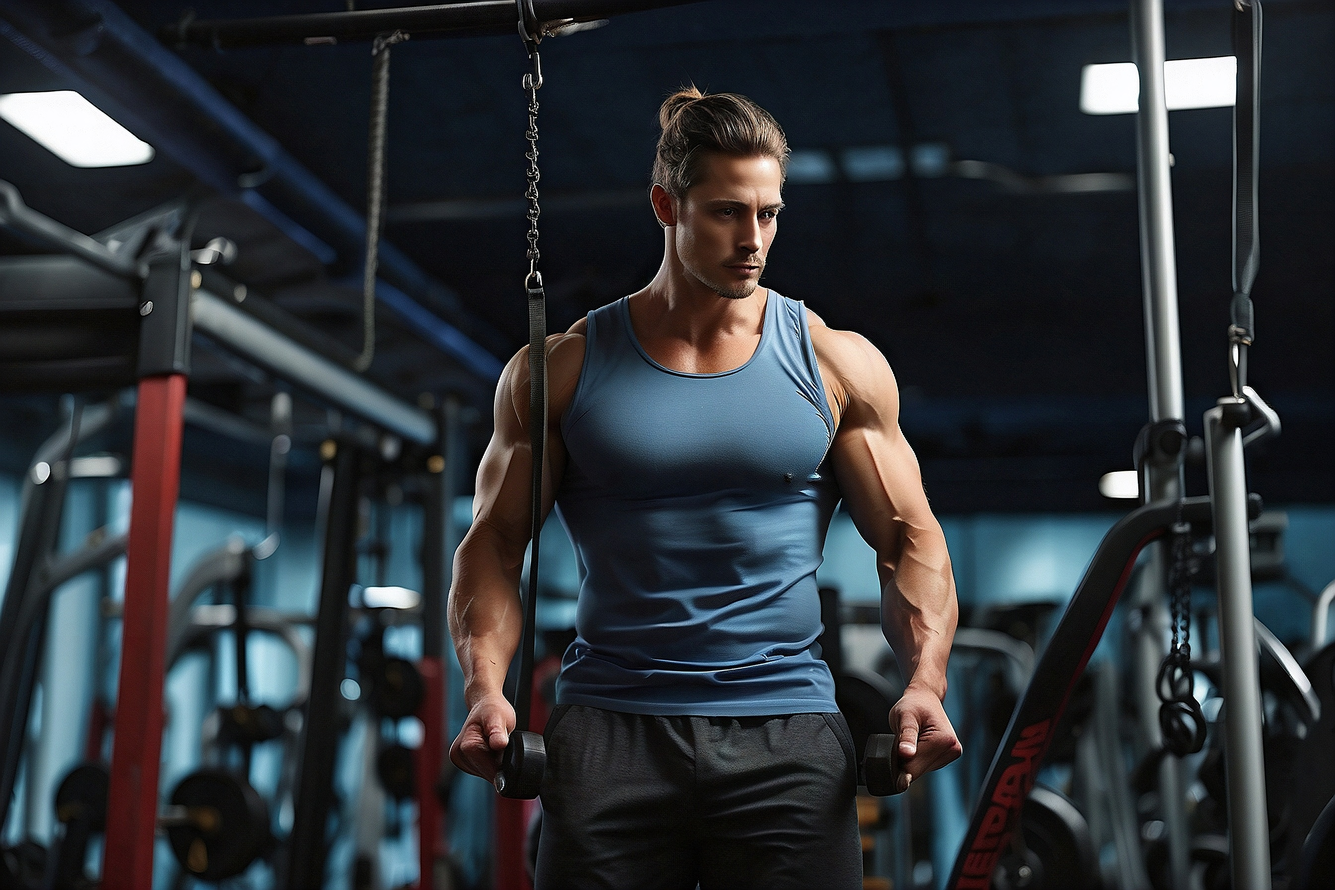
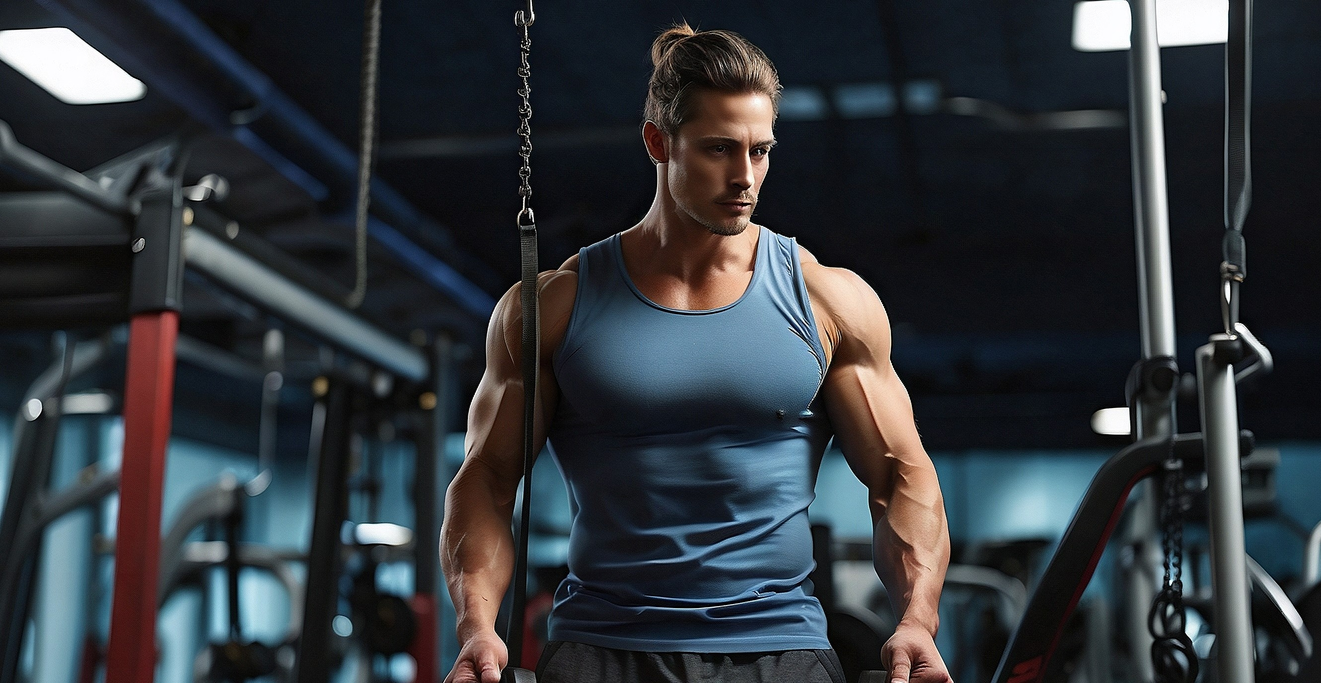
style: removed progress section and changed images of current workout and next workout

diff --git a/src/app/(home)/page.tsx b/src/app/(home)/page.tsx
@@ -8,17 +8,8 @@ export default function Home() {
         <p className=' text-x2 font-bold text-start opacity-80'>Bem vindo,  </p>
         <p className='text-2xl text-start opacity-95'>Isaque Chaves !</p>
       </div>
-      <div className='py-4 bg-gradient-to-b from-accent via-accent-light to-gray-1000 p-4 rounded-xl border'>
-        <p className='uppercase opacity-80'>Progresso</p>
-        <div className='flex flex-row justify-between p-5'>
-          <div>
-            <p className=' text-3xl font-bold'>10 %</p>
-            <p className=' text-[#0B46C7] font-bold'>10/30</p>
-          </div>
-          <p className='text-center font-bold opacity-80'>Expira em <br /> 20 dias </p>
-        </div>
-      </div> 
-      <div className='flex flex-col justify-around h-full py-4'>
+      <div className='flex flex-col h-full py-4 justify-between '>
+        <div>
           <p className='uppercase opacity-80'>Treino atual</p>
             <div className='relative h-[150px] w-full overflow-hidden'>
               <Image
@@ -42,6 +33,8 @@ export default function Home() {
                 </button>
               </div>
             </div>
+        </div>
+          
         <div className='flex flex-col justify-around h-full py-4'>
           <p className='uppercase opacity-80'>Próximo treino</p>
           <div className='relative h-[150px] w-full overflow-hidden'>
